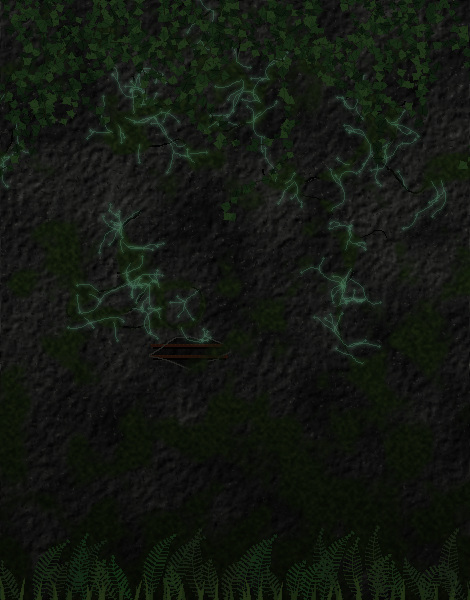
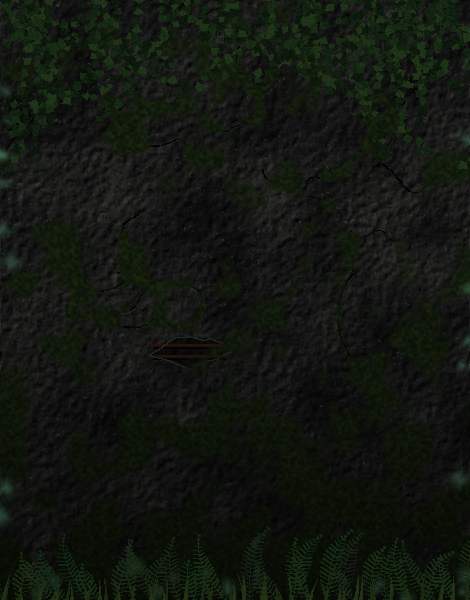
fix: jungle menu mycelium as mould colonies, clearer disabled entry
The title's mycelium read as lightning: it is now drawn as cottony mould
colonies (many faint hyphae summed into soft patches) and breathes slowly
in the menu (title_myc). The store art and the OST cover share the title.

A disabled entry (Load with no saves) gets a darker slab, a muted but
readable label and ivy grown over both ends. The settings / load panel
keeps its glow to the edges and the foot, none behind the rows of text.

diff --git a/ui/menuSkins.js b/ui/menuSkins.js
@@ -116,7 +116,7 @@ function plateEntry(scene, K, nav, { item, i, RX, y, ROW, garden, at }, o) {
             K.pulseDown(scene, RX, y, garden, at);
         },
         enable: (on) => {
-            P.plate.setTint(on ? 0xffffff : 0x5a5a5a);
+            P.plate.setTint(on ? 0xffffff : (o.offTint ?? 0x5a5a5a));
             P.label.setColor(on ? o.labelColour : o.labelDim);
             o.enable?.(P, on);
         },
@@ -297,15 +297,15 @@ const jungle = {
     preload(scene) {
         loadFonts(scene, [['Bungee', 'Bungee.ttf'], ['Rubik', 'Rubik.ttf', { weight: '300 900' }]]);
         loadImages(scene, 'jungle', ['band', 'band_wide', 'panel', 'band_myc', 'band_wide_myc', 'panel_myc', 'rule', 'title',
-            ...[0, 1, 2, 3, 4].flatMap(i => ['plate' + i, `plate${i}_glow`])]);
+            'title_myc', 'ivy_l', 'ivy_r', ...[0, 1, 2, 3, 4].flatMap(i => ['plate' + i, `plate${i}_glow`])]);
     },
     rule(scene, K, x, h) {
         return cut(scene.add.image(x + K.RULE / 2, 0, key('jungle', 'rule')).setOrigin(0.5, 0), h);
     },
     /** the mycelium in the cracks, glowing and breathing */
-    breathe(scene, img) {
-        img.setTint(MINT).setBlendMode(Phaser.BlendModes.ADD).setAlpha(0.35);
-        scene.tweens.add({ targets: img, alpha: 0.85, duration: 2600, yoyo: true, repeat: -1, ease: 'Sine.easeInOut' });
+    breathe(scene, img, from = 0.35, to = 0.85, ms = 2600) {
+        img.setTint(MINT).setBlendMode(Phaser.BlendModes.ADD).setAlpha(from);
+        scene.tweens.add({ targets: img, alpha: to, duration: ms, yoyo: true, repeat: -1, ease: 'Sine.easeInOut' });
         return img;
     },
     band(scene, K, { RX, H, depth }) {
@@ -320,9 +320,16 @@ const jungle = {
         return plateEntry(scene, K, nav, ctx, {
             skin: 'jungle', plate: (i) => 'plate' + (i % 5), glow: (i) => `plate${i % 5}_glow`, glowColour: MINT, side: 12, tb: 10,
             labelStyle: { fontFamily: 'Rubik', fontStyle: 'bold', fontSize: '18px', color: '#dfe2d2', stroke: '#0e120f', strokeThickness: 4 },
-            labelColour: '#dfe2d2', labelOn: '#b4ffd6', labelDim: '#5c625a',
+            // a disabled entry: the slab a shade darker, its label muted but readable, ivy grown over its ends
+            labelColour: '#dfe2d2', labelOn: '#b4ffd6', labelDim: '#8d9488', offTint: 0x6a6a6a,
             glowPulse: (g) => scene.tweens.add({ targets: g, alpha: { from: 0.45, to: 1 }, duration: 1300, yoyo: true, repeat: -1, ease: 'Sine.easeInOut' }),
-            build(P, under, over) { sprouts(scene, K, P, [MINT, 0xe8fff0, 0x5fd6a0], MINT, over); },
+            build(P, under, over) {
+                sprouts(scene, K, P, [MINT, 0xe8fff0, 0x5fd6a0], MINT, over);
+                P.ivy = [scene.add.image(-P.PW / 2 - 3, 0, key('jungle', 'ivy_l')).setOrigin(0, 0.5),
+                    scene.add.image(P.PW / 2 + 3, 0, key('jungle', 'ivy_r')).setOrigin(1, 0.5)];
+                over.push(...P.ivy);
+            },
+            enable(P, on) { P.ivy.forEach(v => v.setVisible(!on)); },
             focus(P, on) { sproutsFocus(scene, P, on); },
             press(P) { ctx.puff.explode(14, ctx.RX / 2 + P.PW / 2 - 36, P.y - P.ROW / 2 - 6); }
         });
@@ -330,6 +337,8 @@ const jungle = {
     title(scene, K, x) {
         const d = K.DEPTH.title;
         scene.add.image(x, 6, key('jungle', 'title')).setOrigin(0.5, 0).setDepth(d);
+        // the mycelium tufts in the lintel's cracks, breathing slowly
+        this.breathe(scene, scene.add.image(x, 6, key('jungle', 'title_myc')).setOrigin(0.5, 0).setDepth(d + 0.01), 0.25, 0.9, 3400);
         K.sporeTex(scene);
         scene.add.particles(0, 0, 'mmSpore', {
             x: { min: x - 220, max: x + 220 }, y: { min: 30, max: 110 }, speedY: { min: -14, max: -5 }, speedX: { min: -5, max: 5 },

diff --git a/tools/artgen/menu_skins.py b/tools/artgen/menu_skins.py
@@ -915,12 +915,62 @@ def mycelium(w, h, rnd, starts, n=60, k=1.0):
     return m
 
 
+def colonies(w, h, rnd, centres, k=1.0, size=(8, 20)):
+    """mycelium as mould colonies: soft cottony patches, each many faint curling hyphae spreading from its middle,
+    summed so they build up into fuzz (dense in the middle, wispy at the rim): an L mask. Reads as something
+    growing, not as a spark or a bolt."""
+    m = Image.new('L', (w, h), 0)
+    for cx, cy, *_ in centres:
+        R = rnd.uniform(*size) * k
+        t = Image.new('L', (w, h), 0)
+        d = ImageDraw.Draw(t)
+        for _ in range(int(R / k * 2.2)):
+            a = rnd.uniform(0, 2 * math.pi)
+            r0 = rnd.uniform(0, R * 0.3)
+            x, y = cx + math.cos(a) * r0, cy + math.sin(a) * r0
+            turn, v = 0.0, rnd.randint(40, 85)
+            steps = int(rnd.uniform(0.5, 1.0) * R / (1.2 * k))
+            for i in range(steps):
+                turn = turn * 0.75 + (rnd.random() - 0.5) * 0.8
+                a += turn * 0.5
+                nx, ny = x + math.cos(a) * 1.2 * k, y + math.sin(a) * 1.2 * k
+                d.line([(x, y), (nx, ny)], fill=round(v * (1 - i / steps) ** 0.6), width=max(1, round(0.7 * k)))
+                x, y = nx, ny
+        core = Image.new('L', (w, h), 0)                    # the felted middle
+        ImageDraw.Draw(core).ellipse([cx - R * 0.35, cy - R * 0.3, cx + R * 0.35, cy + R * 0.3], fill=70)
+        m = ImageChops.add(m, ImageChops.add(t, core.filter(ImageFilter.GaussianBlur(R * 0.25))))
+    return m
+
+
+def along_cracks(paths, dx=0, dy=0, every=2):
+    """points along the cracks (x, y, the crack's direction there): where colonies() can take hold"""
+    out = []
+    for pts in paths:
+        for i in range(0, len(pts) - 1, every):
+            (x0, y0), (x1, y1) = pts[i], pts[i + 1]
+            out.append((x0 + dx, y0 + dy, math.atan2(y1 - y0, x1 - x0)))
+    return out
+
+
+def panel_edges(w, h, side=20, foot=64, fade=26):
+    """an L mask: the panel's left and right edges and its foot (the rows of text keep clear of the glow)"""
+    c = lambda v: max(0.0, min(1.0, v))
+    sides = hgrad(w, h, lambda t: max(c((side + fade - t * w) / fade), c((t * w - (w - side - fade)) / fade)))
+    return ImageChops.lighter(sides, vgrad(w, h, [(0, 0), ((h - foot - fade) / h, 0), ((h - foot) / h, 255), (1, 255)]))
+
+
 def jungle_band(w, h, seed, panel=False):
     rnd = random.Random(seed)
     img, paths = concrete(w, h, seed, cracks=6 if not panel else 8, moss=0.4)
     img = mul(img, vgrad(w, h, [(0, 190), (0.5, 175), (1, 80)]))
     starts = [p for pts in paths for p in pts[::4]]
-    myc = mycelium(w, h, rnd, starts, 70 if not panel else 100)
+    if panel:                                                 # tufts along the edges and the foot only
+        edges = panel_edges(w, h)
+        seeds = [(rnd.uniform(0, 12), rnd.uniform(20, h)) for _ in range(9)] + [(w - rnd.uniform(0, 12), rnd.uniform(20, h)) for _ in range(9)]
+        seeds += [(rnd.uniform(0, w), h - rnd.uniform(0, 40)) for _ in range(10)]
+        myc = ImageChops.multiply(colonies(w, h, rnd, seeds, size=(7, 15)), edges)
+    else:
+        myc = mycelium(w, h, rnd, starts, 70)
     over = Image.new('RGBA', (w, h), (0, 0, 0, 0))
     ivy_curtain(over, rnd, w, 0, 26 if not panel else 40, 260)
     d = ImageDraw.Draw(over)
@@ -981,10 +1031,30 @@ def jungle_slab(seed):
     return rgba(img, a), Image.merge('RGBA', (Image.new('L', (w, h), 255),) * 3 + (ImageChops.multiply(myc, a),))
 
 
-def jungle_title(k=1.0, subtitle='A WEIRD GAME', demo=False):
+def jungle_ivy_end(seed, w=84, h=PLATE_H + 18):
+    """ivy grown over the left end of an entry's slab (a disabled entry: nobody has been this way); mirror it for the
+    right end. The slab sits centred in it, 9 px of room above and below for the leaves that spill over."""
+    rnd = random.Random(seed)
+    img = Image.new('RGBA', (w, h), (0, 0, 0, 0))
+    d = ImageDraw.Draw(img)
+    for _ in range(7):                                        # stems creeping in from the end, thinning out
+        y0 = rnd.uniform(6, h - 6)
+        pts = snake(rnd, rnd.uniform(-4, 4), y0, rnd.uniform(-0.5, 0.5), rnd.randint(14, 34), 2.0, 0.14)
+        d.line(pts, fill=(30, 36, 20, 255), width=1)
+        for i, (x, y) in enumerate(pts):
+            if i % 2 == 0 and rnd.random() < 1.1 - x / w:       # dense at the end, sparse further in
+                ivy_leaf(d, x + rnd.uniform(-2, 2), y + rnd.uniform(-2, 2), rnd.uniform(6, 10), rnd.uniform(0, math.pi * 2),
+                         IVY[rnd.randrange(len(IVY))] + (255,))
+    sh = Image.new('RGBA', (w, h), (0, 0, 0, 0))                # a soft shadow under the leaves, on the slab
+    sh.putalpha(img.getchannel('A').filter(ImageFilter.GaussianBlur(2)).point(lambda v: v * 0.6))
+    return Image.alpha_composite(ImageChops.offset(sh, 1, 2), img)
+
+
+def jungle_title(k=1.0, subtitle='A WEIRD GAME', demo=False, live=False):
     """MORKEZELA as old shop-sign letters (Bungee) painted on a broken concrete lintel, peeling; UPPER glowing mint;
-    mycelium glowing out of the cracks, ivy over the top; the subtitle stencilled on its foot. k = px per menu px
-    (the menu draws it at 1, the store art bigger); demo: a small concrete plate with DEMO hanging under it."""
+    mycelium in fuzzy tufts along the cracks, ivy over the top; the subtitle stencilled on its foot. k = px per menu
+    px (the menu draws it at 1, the store art bigger); demo: a small concrete plate with DEMO hanging under it.
+    live (the menu): the mycelium baked in dimly, returned as a mask too (img, myc) for the menu to make it breathe."""
     K = lambda v: max(1, round(v * k))
     below = 46 if demo else 0
     w, h = round(TITLE_W * k), round((TITLE_H + below) * k)
@@ -1017,14 +1087,16 @@ def jungle_title(k=1.0, subtitle='A WEIRD GAME', demo=False):
     mu = text_mask((w, h), (w / 2, ly + 22 * k), 'UPPER', fu, spacing=11 * k)
     img.paste(MINT, (0, 0), mu)
     img = Image.alpha_composite(img, glow(mu, MINT, 3 * k, 0.5))
-    # mycelium glowing over the lintel, out of its cracks
-    starts = [(lx + x, ly + y) for pts in paths for x, y in pts[::3]]
-    myc = mycelium(w, h, rnd, starts, 40, k)
+    # mycelium in fuzzy tufts along the lintel's cracks, faint over the letters
+    seeds = along_cracks(paths, lx, ly, 3)
+    myc = colonies(w, h, rnd, [seeds[rnd.randrange(len(seeds))] for _ in range(16)], k)
     on_slab = Image.new('L', (w, h), 0)                                     # (the threads stay on the concrete)
     on_slab.paste(a, (lx, ly))
-    myc = ImageChops.multiply(myc, on_slab.filter(ImageFilter.MaxFilter(2 * K(3) + 1)))
-    img = Image.alpha_composite(img, glow(myc, MINT, 2.5 * k, 1.6))
-    img.paste((200, 255, 222), (0, 0), myc.point(lambda v: v * 0.7))
+    myc = ImageChops.multiply(myc, on_slab.filter(ImageFilter.MinFilter(2 * K(2) + 1)))
+    myc = ImageChops.multiply(myc, ImageChops.invert(m.filter(ImageFilter.MaxFilter(2 * K(2) + 1)).point(lambda v: v * 0.75)))
+    img = Image.alpha_composite(img, glow(myc, MINT, 5 * k, 0.9 if live else 1.4))    # a soft bloom round the mat
+    img = Image.alpha_composite(img, glow(myc, MINT, 1.5 * k, 0.5 if live else 0.8))
+    img.paste((180, 250, 210), (0, 0), myc.point(lambda v: v * (0.25 if live else 0.45)))
     # ivy over the top edge, hanging over the letters at the left and right
     over = Image.new('RGBA', (w, h), (0, 0, 0, 0))
     ivy_curtain(over, rnd, w, ly + 2 * k, 7, 70, (lx, lx + 90 * k), k)
@@ -1055,7 +1127,7 @@ def jungle_title(k=1.0, subtitle='A WEIRD GAME', demo=False):
         dm = text_mask((w, h), (w / 2, py + ph / 2 + 1 * k), 'DEMO', font('Bungee.ttf', K(22)), spacing=3 * k)
         img = Image.alpha_composite(img, glow(dm, MINT, 4 * k, 0.9))
         img.paste((210, 255, 228), (0, 0), dm)
-    return img
+    return (img, myc) if live else img
 
 
 def build_jungle():
@@ -1069,7 +1141,11 @@ def build_jungle():
         slab, g = jungle_slab(600 + i)
         save(slab, s, f'plate{i}')
         save(g, s, f'plate{i}_glow')
-    save(jungle_title(), s, 'title')
+    save(jungle_ivy_end(701), s, 'ivy_l')
+    save(jungle_ivy_end(702).transpose(Image.FLIP_LEFT_RIGHT), s, 'ivy_r')
+    title, myc = jungle_title(live=True)
+    save(title, s, 'title')
+    save(Image.merge('RGBA', (Image.new('L', myc.size, 255),) * 3 + (myc,)), s, 'title_myc')
 
 
 # =====================================================================================================================
